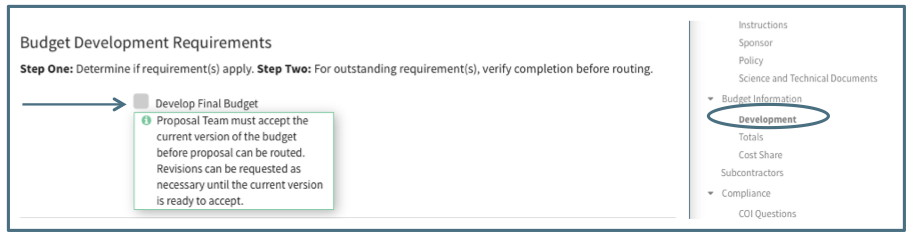
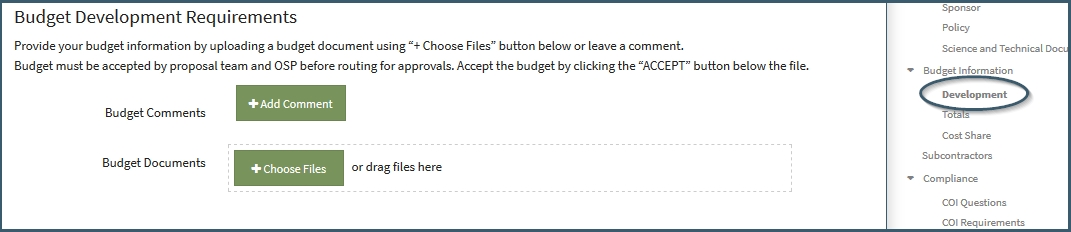
updated for 2.14
- user guide
- release notes

Changed region(s): [[0.0, 0.0, 1.0, 1.0], [0.8578, 0.5733, 0.9497, 0.6034]]

diff --git a/docs/data/Budget Development.md b/docs/data/Budget Development.md
@@ -42,15 +42,16 @@ In order to route the work item for approval, the budget needs to be accepted by
 
 The User can designate the budget as accepted by clicking the “ACCEPT" button next to the budget file.
 
-![Approval and Acceptance in the Action Menu](../images/data/DataBud_ApproveAcceptMenu.jpg)
+![Budget Acceptance button](../images/data/budgetAcceptance.png)
 
-The following represents how the approval and acceptance feature works:
+
+The following represents how the acceptance feature works:
 
 ![Approval and Acceptance Process](../images/data/DataBud_AppAccProcess.jpg)
 
-    Note: At any time during this process, if a new version of the file is uploaded, the status is reset to Pending OSP Approval and Pending Team Acceptance
+    Note: At any time during this process, if a new version of the file is uploaded, the status is reset to Pending OSP Acceptance and Pending Team Acceptance
 
-User can "revoke" acceptance or approval to put the budget back in the Pending state by clicking on the "Pending Acceptance" or "Pending Approval" option in the menu that appears after the User has accepted/approved.  The User can also has the option to "revoke" the not accepted/not approved status.
+User can "revoke" acceptance to put the budget back in the Pending state by clicking on the "Pending Acceptance" option in the menu that appears after the User has accepted.  The User can also has the option to "revoke" the not accepted status.
 
 ![Pending Acceptance](../images/data/DataBud_PendingAcceptance.jpg)
 

diff --git a/docs/index.md b/docs/index.md
@@ -40,6 +40,7 @@ The tabs at the top will take you to the specific topics within the User Guide (
     - [Routing](Approvals/Routing.md)
     - [Approving](Approvals/Approving.md)
     - [Canceling](Approvals/Canceling.md)
+    - [Mobile Approver](Approvals/mobile.md)
 - Management
     - [Sponsors](Management/Sponsor Editor.md)
     - [Sponsor Vetting](Management/Sponsor Vetting.md)
